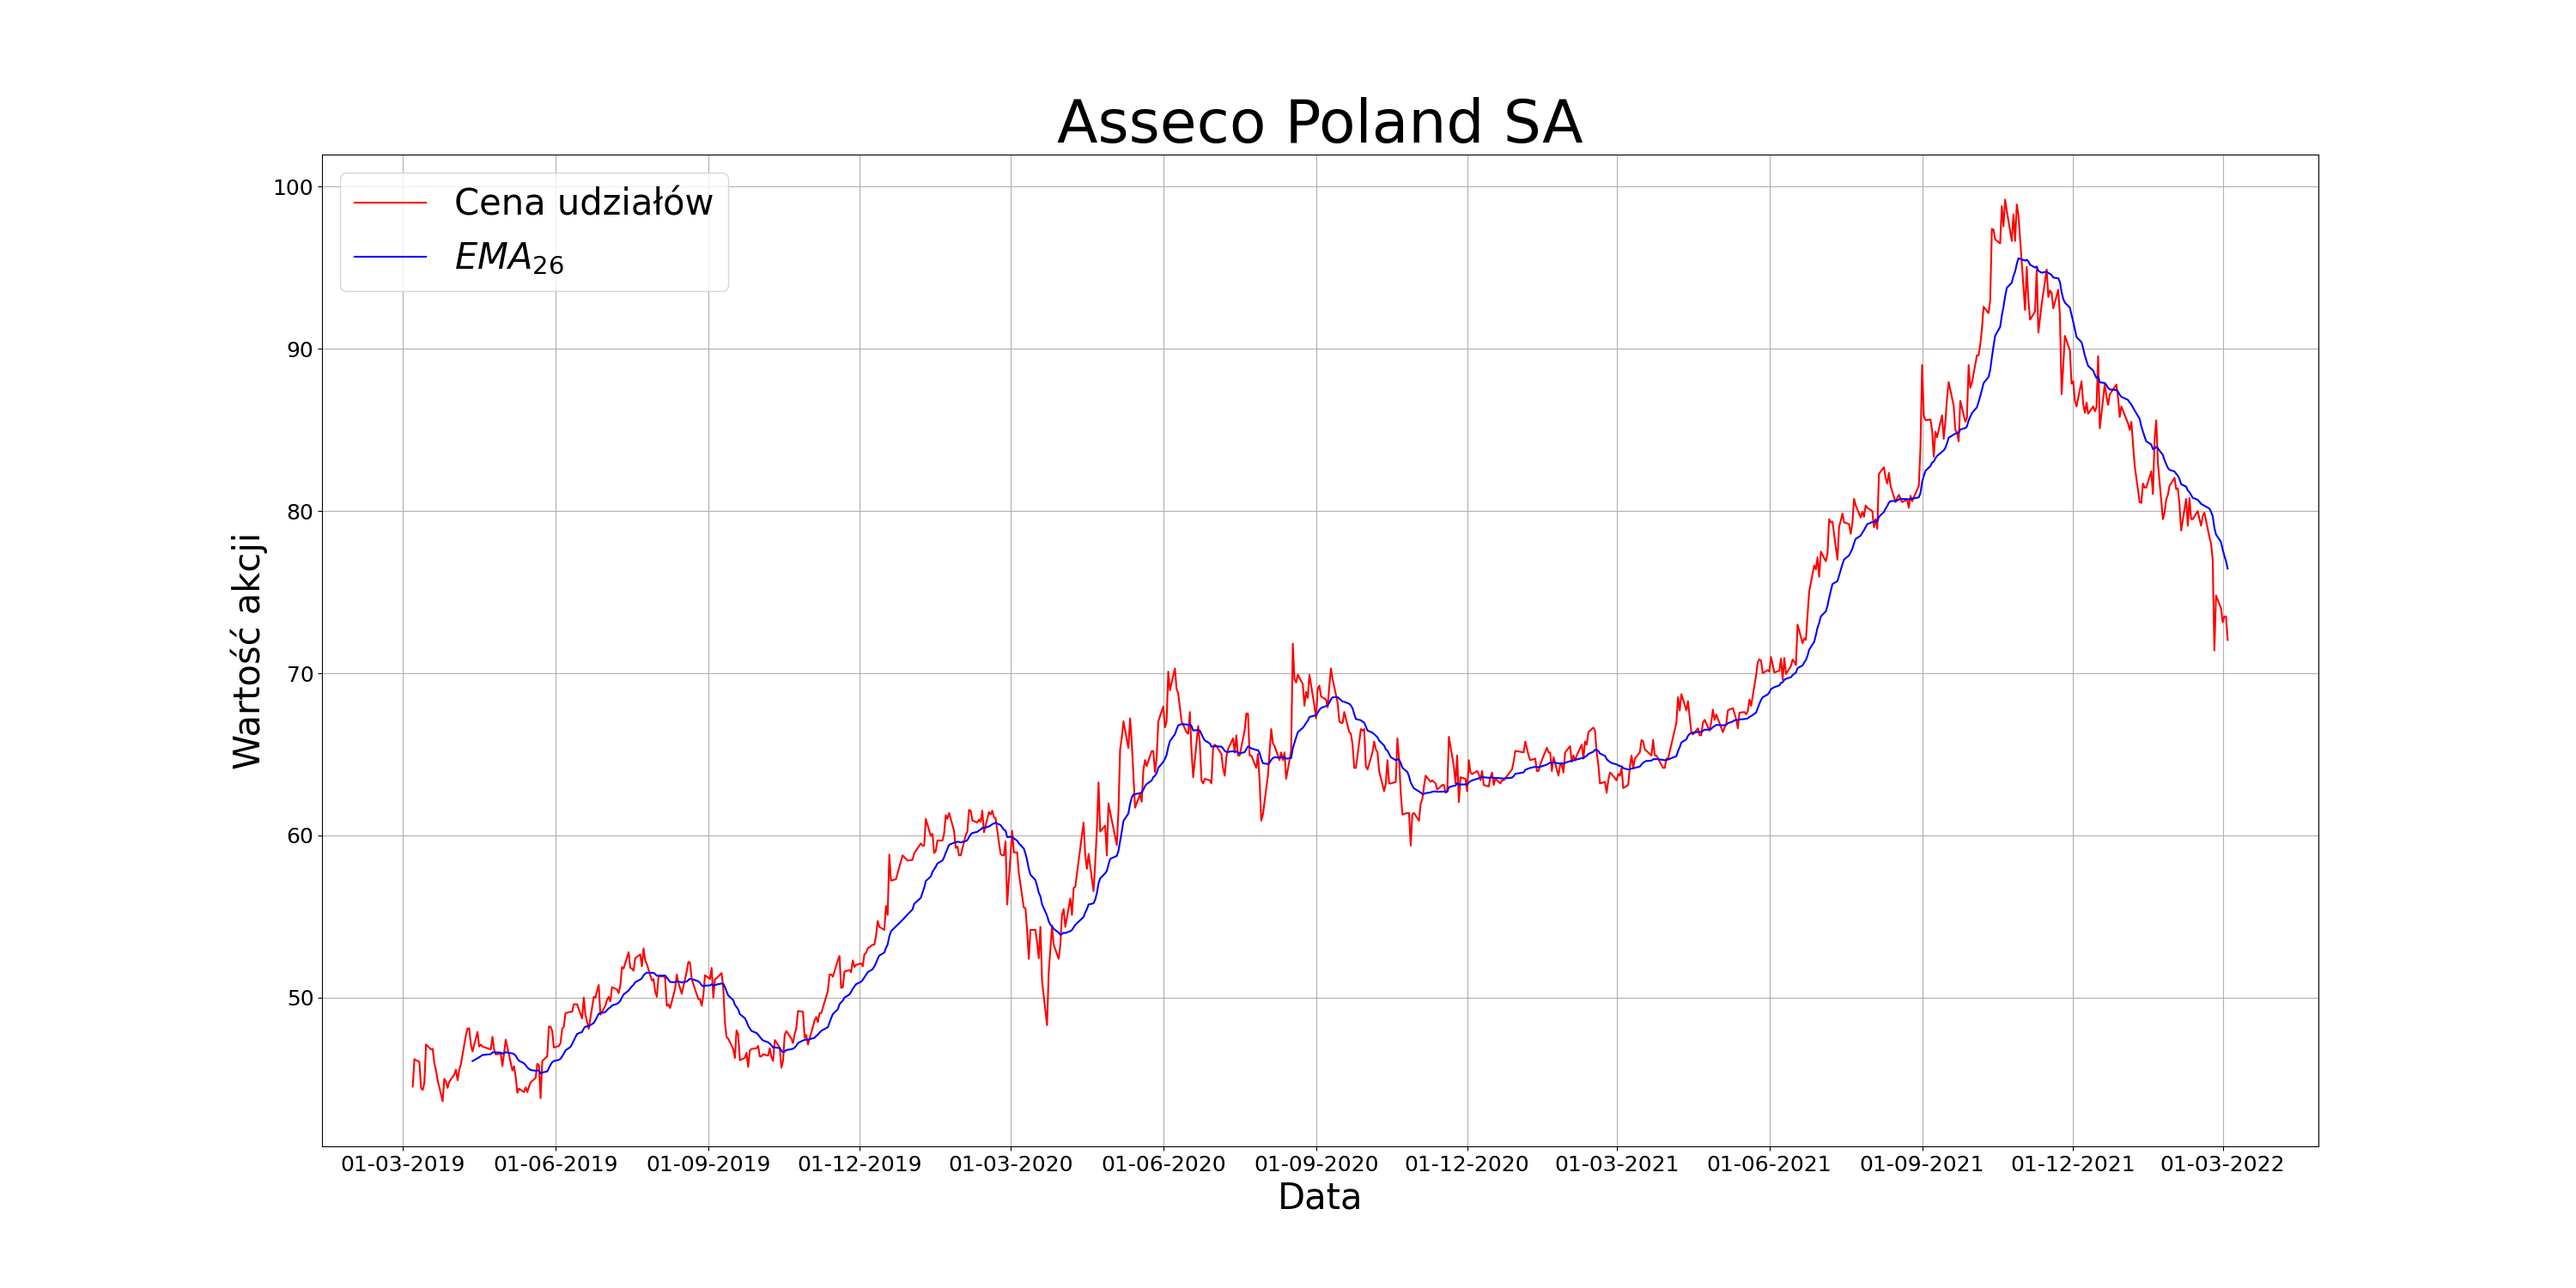
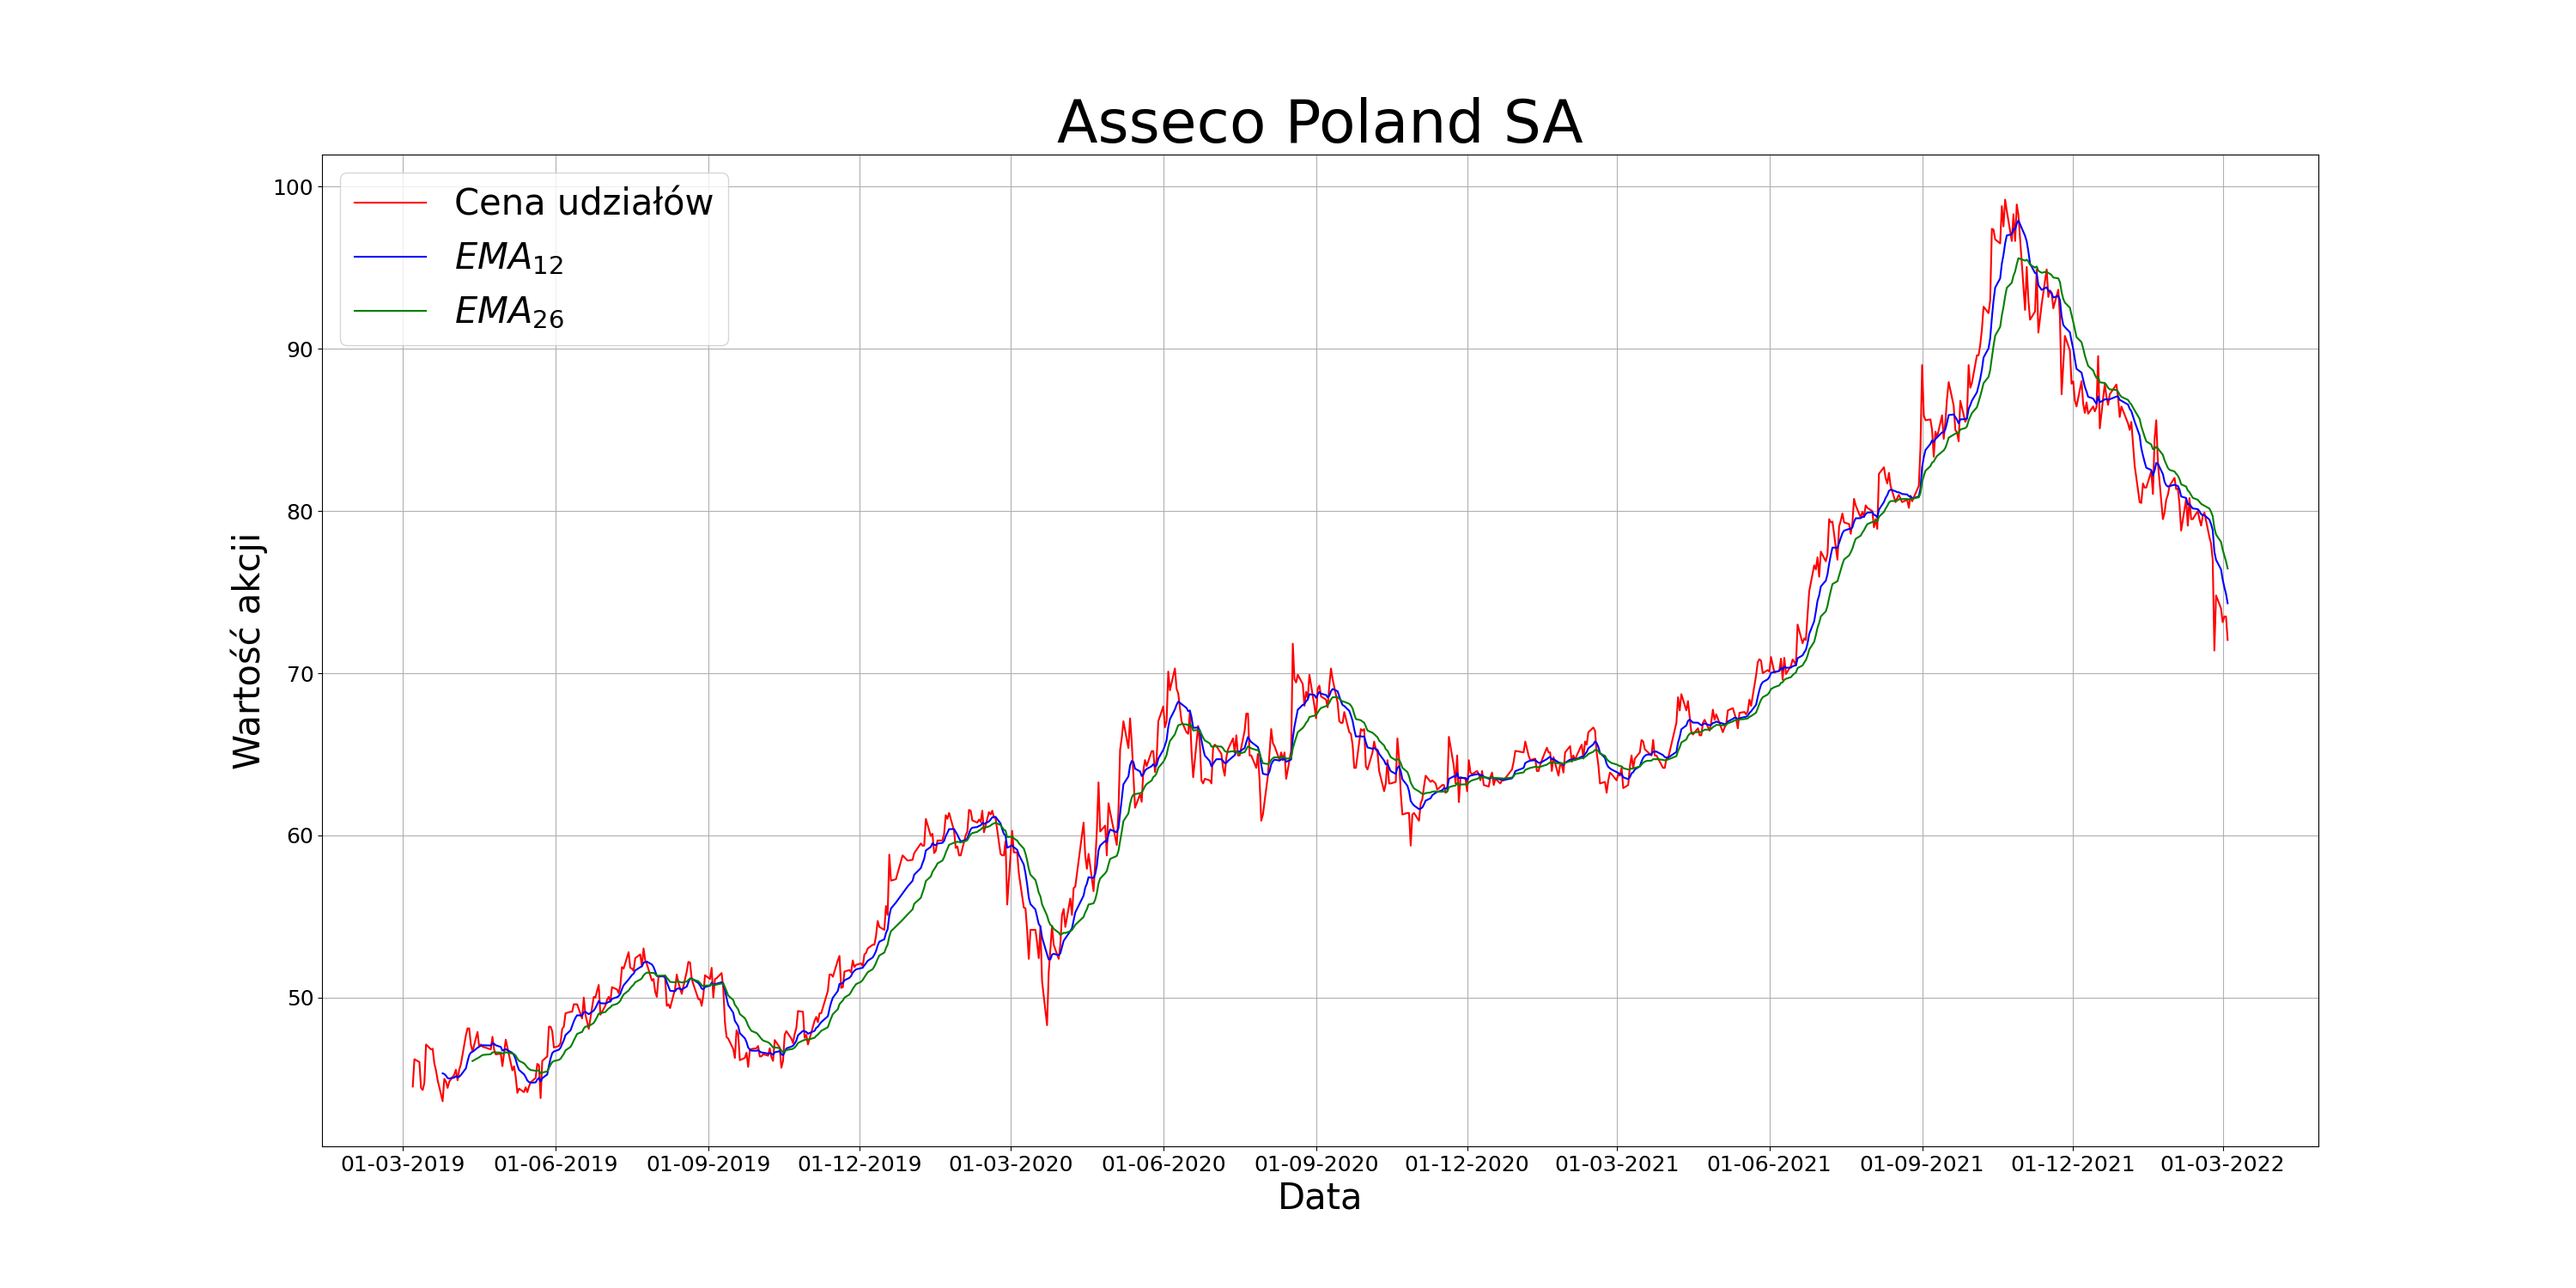
Drugi wskaznik EMA na wykresie

diff --git a/Projekt1 - MACD/Projekt1/miscFunctions.py b/Projekt1 - MACD/Projekt1/miscFunctions.py
@@ -12,13 +12,15 @@ def importCSVData(filepath):
     return dates, values
 
 
-def drawPlot(dates, values, ema1):
+def drawPlot(dates, values, ema1, ema2):
     dates = [dt.datetime.strptime(d, '%Y-%m-%d').date() for d in dates]
 
     plt.plot(dates, values, color ='r', label='Cena udziałów')
-    emaN = len(dates) - len(ema1)
-    plt.plot(dates[emaN:], ema1, color='b', label="$EMA_{" + str(emaN) + "}$")
+    ema1period = len(dates) - len(ema1)
+    plt.plot(dates[ema1period:], ema1, color='b', label="$EMA_{" + str(ema1period) + "}$")
 
+    ema2period = len(dates) - len(ema2)
+    plt.plot(dates[ema2period:], ema2, color='g', label="$EMA_{" + str(ema2period) + "}$" )
     # ustawiamy rozmiar wykresu
     fig = plt.gcf()
     fig.set_size_inches(30, 15)

diff --git a/Projekt1 - MACD/Projekt1/main.py b/Projekt1 - MACD/Projekt1/main.py
@@ -24,4 +24,4 @@ csvFilepath = 'asseco.csv'
 dates, values = miscFunctions.importCSVData(csvFilepath)
 ema12 = calculateEMA(12, values)
 ema26 = calculateEMA(26,values)
-miscFunctions.drawPlot(dates, values, ema26)
+miscFunctions.drawPlot(dates, values, ema12,ema26)
